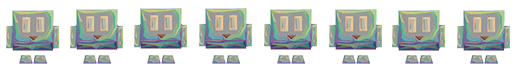
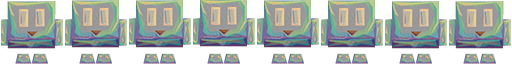
arreglar metodos de crear niveles y estructurar la información

diff --git a/assets/css/MenuPrincipal.css b/assets/css/MenuPrincipal.css
@@ -1,1 +1,1 @@
-*:where(:not(html,iframe,canvas,img,svg,video):not(svg *,symbol *)){all:unset;display:revert}*,*::before,*::after{box-sizing:border-box}a,button{cursor:revert}ol,ul,menu{list-style:none}img{max-width:100%}table{border-collapse:collapse}textarea{white-space:revert}meter{-webkit-appearance:revert;-moz-appearance:revert;appearance:revert}::-moz-placeholder{color:unset}::placeholder{color:unset}:where([hidden]){display:none}:where([contenteditable]){-moz-user-modify:read-write;-webkit-user-modify:read-write;overflow-wrap:break-word;-webkit-line-break:after-white-space}:where([draggable=true]){-webkit-user-drag:element}*{border:1px solid tomato;overflow-y:hidden}:root{color:#333;font-size:1rem;line-height:1.5rem;font-family:system-ui,-apple-system,BlinkMacSystemFont,"Segoe UI",Roboto,Oxygen,Ubuntu,Cantarell,"Open Sans","Helvetica Neue",sans-serif}body{display:flex;flex-direction:column;justify-content:center;align-items:center;height:100vh;background-color:#575757}body header{display:flex;flex-direction:column;justify-content:center;align-items:center}body header h1{font-size:3rem;line-height:3.5rem;font-weight:bold;font-family:"Franklin Gothic Medium","Arial Narrow",Arial,sans-serif;color:#fff}body .Inicio{display:flex;flex-direction:column;justify-content:center}body .Inicio h2{color:#fff;font-size:1rem;line-height:1.5rem;margin:1rem}body .Inicio .start-button{display:flex;align-items:center;color:#fff;font-size:1.25rem;line-height:1.5rem;margin:1rem;padding:.25rem .5rem .5rem;border-radius:5px;transition:background-color .3s,color .3s}body .Inicio .start-button:hover{background-color:#fff;color:#333}/*# sourceMappingURL=MenuPrincipal.css.map */
+*:where(:not(html,iframe,canvas,img,svg,video):not(svg *,symbol *)){all:unset;display:revert}*,*::before,*::after{box-sizing:border-box}a,button{cursor:revert}ol,ul,menu{list-style:none}img{max-width:100%}table{border-collapse:collapse}textarea{white-space:revert}meter{-webkit-appearance:revert;-moz-appearance:revert;appearance:revert}::-moz-placeholder{color:unset}::placeholder{color:unset}:where([hidden]){display:none}:where([contenteditable]){-moz-user-modify:read-write;-webkit-user-modify:read-write;overflow-wrap:break-word;-webkit-line-break:after-white-space}:where([draggable=true]){-webkit-user-drag:element}footer{background-color:#333;color:#fff;text-align:center;padding:.5rem;font-size:1em}*{border:1px solid tomato;overflow-y:hidden}:root{color:#333;font-size:1rem;line-height:1.5rem;font-family:system-ui,-apple-system,BlinkMacSystemFont,"Segoe UI",Roboto,Oxygen,Ubuntu,Cantarell,"Open Sans","Helvetica Neue",sans-serif}body{display:flex;flex-direction:column;justify-content:center;align-items:center;height:100vh;background-color:#575757}body header{display:flex;flex-direction:column;justify-content:center;align-items:center}body header h1{font-size:3rem;line-height:3.5rem;font-weight:bold;font-family:"Franklin Gothic Medium","Arial Narrow",Arial,sans-serif;color:#fff}body .Inicio{display:flex;flex-direction:column;justify-content:center}body .Inicio h2{color:#fff;font-size:1rem;line-height:1.5rem;margin:1rem}body .Inicio .start-button{display:flex;align-items:center;color:#fff;font-size:1.25rem;line-height:1.5rem;margin:1rem;padding:.25rem .5rem .5rem;border-radius:5px;transition:background-color .3s,color .3s}body .Inicio .start-button:hover{background-color:#fff;color:#333}/*# sourceMappingURL=MenuPrincipal.css.map */

diff --git a/assets/css/main.css b/assets/css/main.css
@@ -1,1 +1,1 @@
-*:where(:not(html,iframe,canvas,img,svg,video):not(svg *,symbol *)){all:unset;display:revert}*,*::before,*::after{box-sizing:border-box}a,button{cursor:revert}ol,ul,menu{list-style:none}img{max-width:100%}table{border-collapse:collapse}textarea{white-space:revert}meter{-webkit-appearance:revert;-moz-appearance:revert;appearance:revert}::-moz-placeholder{color:unset}::placeholder{color:unset}:where([hidden]){display:none}:where([contenteditable]){-moz-user-modify:read-write;-webkit-user-modify:read-write;overflow-wrap:break-word;-webkit-line-break:after-white-space}:where([draggable=true]){-webkit-user-drag:element}header{margin-bottom:.5rem;display:flex;flex-direction:row;justify-content:space-between;align-items:center;width:100vh}header p{color:tomato}header h1{color:#333;font-size:3rem;line-height:3.5rem;font-weight:bold;font-family:"Franklin Gothic Medium","Arial Narrow",Arial,sans-serif}footer{background-color:#333;color:#fff;text-align:center;padding:.5rem;font-size:1em}*{border:1px solid tomato;overflow-y:hidden}:root{color:#333;font-size:1rem;line-height:1.5rem;font-family:system-ui,-apple-system,BlinkMacSystemFont,"Segoe UI",Roboto,Oxygen,Ubuntu,Cantarell,"Open Sans","Helvetica Neue",sans-serif}body{display:flex;flex-direction:column;justify-content:center;align-items:center;height:100vh;background-color:#575757}/*# sourceMappingURL=main.css.map */
+*:where(:not(html,iframe,canvas,img,svg,video):not(svg *,symbol *)){all:unset;display:revert}*,*::before,*::after{box-sizing:border-box}a,button{cursor:revert}ol,ul,menu{list-style:none}img{max-width:100%}table{border-collapse:collapse}textarea{white-space:revert}meter{-webkit-appearance:revert;-moz-appearance:revert;appearance:revert}::-moz-placeholder{color:unset}::placeholder{color:unset}:where([hidden]){display:none}:where([contenteditable]){-moz-user-modify:read-write;-webkit-user-modify:read-write;overflow-wrap:break-word;-webkit-line-break:after-white-space}:where([draggable=true]){-webkit-user-drag:element}header{margin:1rem .5rem;display:flex;flex-direction:row;justify-content:space-between;align-items:center;display:grid;grid-column:2/3}header p{color:tomato}header h1{color:#fff;font-size:3rem;line-height:3.5rem;font-weight:bold;font-family:"Franklin Gothic Medium","Arial Narrow",Arial,sans-serif}footer{background-color:#333;color:#fff;text-align:center;padding:.5rem;font-size:1em}*{border:1px solid tomato;overflow-y:hidden}:root{color:#333;font-size:1rem;line-height:1.5rem;font-family:system-ui,-apple-system,BlinkMacSystemFont,"Segoe UI",Roboto,Oxygen,Ubuntu,Cantarell,"Open Sans","Helvetica Neue",sans-serif}body{display:flex;display:grid;grid-template-columns:1fr 800px 1fr;flex-direction:column;justify-content:center;align-items:center;height:100vh;background-color:#575757}body .home{display:flex;flex-direction:column;justify-content:center;grid-column:2/3}/*# sourceMappingURL=main.css.map */

diff --git a/app/main.js b/app/main.js
@@ -37,7 +37,9 @@ function preload() {
         frameHeight: 64
     });
 
+    this.load.image('cartel', 'assets/img/ItemsCartel.png');
     this.load.image('marco', 'assets/img/FondoMarco.png');
+
 };
 
 let player;
@@ -47,7 +49,7 @@ let cursors;
 
 function create() {
     // Aquí creo los objetos del juego, como sprites, texto, etc...
-    const ALTO_FONDO = 1200;
+    const ALTO_FONDO = 1200; //una solución a que no se colocaba el fondo bien, pero es ineficiente. 
     //Además no tiene sentido que meta elementos sueltos, los tengo que meter en funciones para poder manipularlos después.
     /*
     const suelo = this.add.rectangle(400, 580, 800, 40, 0x00ff00);
@@ -112,6 +114,10 @@ function create() {
     this.physics.world.setBounds(0, 0, 3200, 1200);
     this.cameras.main.setBounds(0, 0, 3200, 1200);
     
+    let cartel = this.add.image( 400, ALTO_FONDO - 90, 'cartel');
+    cartel.setPipeline('Light2D');
+    cartel.setDepth(5);
+    cartel.setScale(64 / 300); 
     
     //le pongo una camara que siga al jugador, porque sino esto es pochisimo, y no se puede ni jugar.
     this.cameras.main.startFollow(player, true, 0.1, 0.1);
@@ -147,3 +153,5 @@ function update (){
     this.focoPersonaje.x = player.x;
     this.focoPersonaje.y = player.y;
 }
+
+//a parte de que algunos elementos se tienen que organizar y crear asi, también he tomado como referencia la metodologia que aplique el semestre pasado con Mikel en la asignatura de diseño de videojuegos. 

diff --git a/assets/sass/main.scss b/assets/sass/main.scss
@@ -17,10 +17,20 @@
 
 body {
     display: flex;
+    display: grid;
+    grid-template-columns: 1fr 800px 1fr;
     flex-direction: column;
     justify-content: center;
     align-items: center;
     height: 100vh;
     background-color:rgb(87, 87, 87);
     
+    .home {
+        display: flex;
+        flex-direction: column;
+        justify-content: center;   
+        
+        grid-column: 2 / 3;
+        
+    }
 }

diff --git a/assets/sass/partials/_header.scss b/assets/sass/partials/_header.scss
@@ -1,15 +1,17 @@
 header {
-    margin-bottom: .5rem;
+    margin: 1rem  .5rem;
     display: flex;
     flex-direction: row;
     justify-content: space-between; 
     align-items: center;
-    width: 100vh;
+    display: grid;
+    grid-column: 2 / 3;
+
     p{
         color: tomato;
     }
     h1 {
-        color: $base-color;
+        color: $white;
         @include h1;
     }
     

diff --git a/MenuPrincipal.html b/MenuPrincipal.html
@@ -23,7 +23,9 @@
     <!-- <div class="home" id="game-container2">
         
     </div> -->
-
+    <footer>
+        <p>&copy; 2023 Título del juego. Todos los derechos reservados.</p>
+    </footer>
     <script src="https://cdn.jsdelivr.net/npm/phaser@3.60.0/dist/phaser.min.js"></script>
     <script src="/app/MenuPrincipal.js"></script>
 </body>

diff --git a/index.html b/index.html
@@ -30,9 +30,7 @@
         <!-- boiler -->
         
     </div>
-    <footer>
-        <p>&copy; 2023 Título del juego. Todos los derechos reservados.</p>
-    </footer>
+    
     <script src="https://cdn.jsdelivr.net/npm/phaser@3.60.0/dist/phaser.min.js"></script>
     <script src="/app/main.js"></script>
 </body>

diff --git a/assets/sass/MenuPrincipal.scss b/assets/sass/MenuPrincipal.scss
@@ -1,6 +1,7 @@
 @import "./partials/reset";
 @import "./partials/vars";
 @import "./partials/mixins";
+@import "./partials/footer";
 
 * {
     border: 1px solid tomato;
